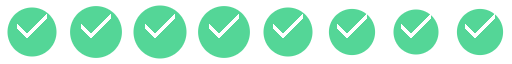
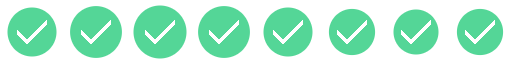
feat(mac): add tray style bw, widen the card stripe and centre the tick
- [tray] style = bw draws the quota icon as a template image the system tints
- widen the colour stripe from 8 to 14 px
- move the turn_complete tick down so it sits centred in the circle

diff --git a/src/tray_usage.rs b/src/tray_usage.rs
@@ -69,6 +69,37 @@ impl Levels {
 
     /// Top-down, premultiplied BGRA pixels for a square notification-area icon.
     pub fn render(&self, size: u32) -> Result<Vec<u8>, &'static str> {
+        self.paint(
+            size,
+            |remaining| match remaining {
+                Some(v) if v > 60.0 => [85, 180, 34, 255],
+                Some(v) if v > 20.0 => [0, 165, 216, 255],
+                Some(_) => [68, 68, 224, 255],
+                None => [133, 133, 133, 255],
+            },
+            [85, 85, 85, 255],
+        )
+    }
+
+    /// The same bars in black with only the alpha varying, for a template image: macOS tints
+    /// it black or white to match the menu bar. Missing data is a dimmer full-height bar.
+    pub fn render_mono(&self, size: u32) -> Result<Vec<u8>, &'static str> {
+        self.paint(
+            size,
+            |remaining| match remaining {
+                Some(_) => [0, 0, 0, 255],
+                None => [0, 0, 0, 110],
+            },
+            [0, 0, 0, 70],
+        )
+    }
+
+    fn paint(
+        &self,
+        size: u32,
+        fill_color: impl Fn(Option<f64>) -> [u8; 4],
+        track: [u8; 4],
+    ) -> Result<Vec<u8>, &'static str> {
         if !(8..=256).contains(&size) {
             return Err("invalid tray icon size");
         }
@@ -101,12 +132,7 @@ impl Levels {
             }
         }
         for (remaining, start, end) in bars {
-            let color = match remaining {
-                Some(v) if v > 60.0 => [85, 180, 34, 255],
-                Some(v) if v > 20.0 => [0, 165, 216, 255],
-                Some(_) => [68, 68, 224, 255],
-                None => [133, 133, 133, 255],
-            };
+            let color = fill_color(remaining);
             let percent = remaining.map_or(100.0, |v| match self.display {
                 UsageDisplay::Remain => v,
                 UsageDisplay::Used => 100.0 - v,
@@ -120,12 +146,53 @@ impl Levels {
                     let pixel = if y >= margin + height - fill {
                         color
                     } else {
-                        [85, 85, 85, 255]
+                        track
                     };
                     pixels[offset..offset + 4].copy_from_slice(&pixel);
                 }
             }
         }
         Ok(pixels)
+    }
+}
+
+#[cfg(test)]
+mod tests {
+    use super::*;
+
+    fn levels(remaining: [Option<f64>; 2]) -> Levels {
+        Levels {
+            remaining,
+            split_right: None,
+            display: UsageDisplay::Remain,
+        }
+    }
+
+    fn alpha(pixels: &[u8], size: u32, x: u32, y: u32) -> u8 {
+        pixels[((y * size + x) * 4 + 3) as usize]
+    }
+
+    #[test]
+    fn the_monochrome_icon_is_black_with_alpha_only_so_the_system_can_tint_it() {
+        let size = 32;
+        let pixels = levels([Some(50.0), None]).render_mono(size).unwrap();
+        assert_eq!(pixels.len(), (size * size * 4) as usize);
+        // Colour channels stay zero everywhere (premultiplied black).
+        assert!(pixels.chunks(4).all(|p| p[..3] == [0, 0, 0]));
+        let (left, right, bottom, top) = (6, 24, size - 5, 5);
+        // Known level: filled part opaque, empty part a faint track.
+        assert_eq!(alpha(&pixels, size, left, bottom), 255);
+        let track = alpha(&pixels, size, left, top);
+        assert!((1..255).contains(&track), "{track}");
+        // Missing data is drawn as a full-height dim bar, apart from a known level.
+        let unknown = alpha(&pixels, size, right, bottom);
+        assert!(unknown > track && unknown < 255, "{unknown}");
+        assert_eq!(unknown, alpha(&pixels, size, right, top));
+        assert_eq!(alpha(&pixels, size, 0, 0), 0);
+    }
+
+    #[test]
+    fn the_monochrome_icon_rejects_sizes_the_colour_icon_rejects() {
+        assert!(levels([None; 2]).render_mono(4).is_err());
     }
 }

diff --git a/src/mac/tray.rs b/src/mac/tray.rs
@@ -3,7 +3,7 @@ use super::{
     geometry::Rect,
     menu::{Command, Item},
 };
-use crate::tray_usage::Levels;
+use crate::{config::TrayStyle, tray_usage::Levels};
 use objc2::{
     DefinedClass, MainThreadMarker, MainThreadOnly, define_class, msg_send, rc::Retained, sel,
 };
@@ -53,7 +53,7 @@ pub struct Tray {
     item: Retained<NSStatusItem>,
     target: Retained<MenuTarget>,
     mtm: MainThreadMarker,
-    shown: Option<Levels>,
+    shown: Option<(Levels, TrayStyle)>,
 }
 
 impl Tray {
@@ -95,24 +95,29 @@ impl Tray {
     }
 
     /// Draws the quota bars as the icon; unchanged levels cost nothing.
-    pub fn set_levels(&mut self, levels: Levels) -> Result<(), String> {
-        if self.shown.as_ref() == Some(&levels) {
+    pub fn set_levels(&mut self, levels: Levels, style: TrayStyle) -> Result<(), String> {
+        if self.shown.as_ref() == Some(&(levels.clone(), style)) {
             return Ok(());
         }
         let size = (ICON_POINTS * 2.0) as u32;
-        let pixels = levels.render(size).map_err(|e| e.to_owned())?;
-        let image = super::image::from_bgra(
+        let pixels = match style {
+            TrayStyle::Color => levels.render(size),
+            TrayStyle::Bw => levels.render_mono(size),
+        }
+        .map_err(|e| e.to_owned())?;
+        let image = super::image::from_bgra_as(
             &pixels,
             size as i32,
             size as i32,
             (ICON_POINTS, ICON_POINTS),
+            style == TrayStyle::Bw,
         )?;
         let button = self
             .item
             .button(self.mtm)
             .ok_or("the status item has no button")?;
         button.setImage(Some(&image));
-        self.shown = Some(levels);
+        self.shown = Some((levels, style));
         Ok(())
     }
 

diff --git a/src/card_paint.rs b/src/card_paint.rs
@@ -198,7 +198,7 @@ pub fn paint(width: i32, height: i32, scale: f64, text_left: i32, content: &Card
     let mut pixels = vec![0u8; width as usize * height as usize * 4];
     let background = bgra(*background_color, 242);
     let radius = (18.0 * scale) as i32;
-    let stripe = (8.0 * scale) as i32;
+    let stripe = (14.0 * scale) as i32;
     for y in 0..height {
         for x in 0..width {
             let cx = x.clamp(radius, width - radius - 1);
@@ -378,8 +378,10 @@ mod tests {
         let painted = paint(W, H, 1.0, 22, &content(&heading, 1, false));
         assert_eq!(painted.pixels.len(), (W * H * 4) as usize);
         assert_eq!(pixel(&painted, 0, 0), [0, 0, 0, 0]);
-        // BGRA of the stripe colour (R 250, G 180, B 55), left of the 8 px stripe width.
+        // BGRA of the stripe colour (R 250, G 180, B 55); the stripe is 14 px wide at scale 1.
         assert_eq!(&pixel(&painted, 3, H / 2)[..3], &[55, 180, 250]);
+        assert_eq!(&pixel(&painted, 13, H / 2)[..3], &[55, 180, 250]);
+        assert_ne!(&pixel(&painted, 14, H / 2)[..3], &[55, 180, 250]);
         let background = crate::config::Notifications::default().background_color;
         assert_eq!(
             pixel(&painted, 40, H / 2),

diff --git a/tests/config.rs b/tests/config.rs
@@ -1,6 +1,6 @@
 use aherald::{
     cli::Cli,
-    config::{Config, Interpolation, LogLevel, Mode, Monitor, Position},
+    config::{Config, Interpolation, LogLevel, Mode, Monitor, Position, TrayStyle},
     events::Kind,
 };
 use std::{fs, path::PathBuf, process::Command};
@@ -287,6 +287,21 @@ fn missing_explicit_configuration_is_an_error() {
     assert!(Config::load(&path, false).is_ok());
     assert!(path.is_file());
     fs::remove_file(path).unwrap();
+}
+
+#[test]
+fn the_tray_style_is_color_by_default_and_accepts_bw() {
+    let dir = PathBuf::from(".");
+    assert_eq!(
+        Config::parse("", &dir).unwrap().tray.style,
+        TrayStyle::Color
+    );
+    for (name, style) in [("color", TrayStyle::Color), ("bw", TrayStyle::Bw)] {
+        let text = format!("[tray]\nstyle='{name}'");
+        assert_eq!(Config::parse(&text, &dir).unwrap().tray.style, style);
+    }
+    let error = Config::parse("[tray]\nstyle='gray'", &dir).unwrap_err();
+    assert!(error.contains("tray.style"), "{error}");
 }
 
 #[test]

diff --git a/src/mac/image.rs b/src/mac/image.rs
@@ -11,6 +11,17 @@ pub fn from_bgra(
     height: i32,
     size: (f64, f64),
 ) -> Result<Retained<NSImage>, String> {
+    from_bgra_as(pixels, width, height, size, false)
+}
+
+/// As [`from_bgra`]; a `template` image uses only its alpha and is tinted by the system.
+pub fn from_bgra_as(
+    pixels: &[u8],
+    width: i32,
+    height: i32,
+    size: (f64, f64),
+    template: bool,
+) -> Result<Retained<NSImage>, String> {
     if width <= 0 || height <= 0 || pixels.len() != width as usize * height as usize * 4 {
         return Err("image buffer does not match its size".into());
     }
@@ -47,6 +58,7 @@ pub fn from_bgra(
         rep.setSize(NSSize::new(size.0, size.1));
         let image = NSImage::initWithSize(NSImage::alloc(), NSSize::new(size.0, size.1));
         image.addRepresentation(&rep);
+        image.setTemplate(template);
         Ok(image)
     }
 }

diff --git a/generate_assets.rs b/generate_assets.rs
@@ -23,6 +23,9 @@ fn main() -> Result<(), Box<dyn std::error::Error>> {
             let alpha = ((radius + 1.0 - distance).clamp(0.0, 1.0) * 230.0) as u8;
             let mark = match kind {
                 "turn_complete" => {
+                    // The tick spans y -16..4 before this shift, so it sat above centre and
+                    // its tip nearly touched the rim; move it down to centre it in the circle.
+                    let y = y - 6.0;
                     ((y - (x + 9.0)).abs() < 2.5 && (-15.0..=-5.0).contains(&x))
                         || ((y - (-x - 1.0)).abs() < 2.5 && (-5.0..=15.0).contains(&x))
                 }

diff --git a/src/config.rs b/src/config.rs
@@ -100,6 +100,17 @@ impl Default for Config {
 #[serde(default, deny_unknown_fields)]
 pub struct Tray {
     pub graph: TrayGraph,
+    pub style: TrayStyle,
+}
+
+/// How the quota icon is drawn. `Bw` is a template image that macOS tints black or white to
+/// match the menu bar; other platforms draw `Color` whatever is configured.
+#[derive(Clone, Copy, Debug, Default, Deserialize, PartialEq, Eq)]
+#[serde(rename_all = "lowercase")]
+pub enum TrayStyle {
+    #[default]
+    Color,
+    Bw,
 }
 
 #[derive(Clone, Copy, Debug, Default, Deserialize, PartialEq, Eq)]

diff --git a/src/mac/resident.rs b/src/mac/resident.rs
@@ -326,7 +326,7 @@ impl Ui {
                 self.config.tray.graph,
                 display,
             );
-            if let Err(error) = self.tray.set_levels(levels) {
+            if let Err(error) = self.tray.set_levels(levels, self.config.tray.style) {
                 eprintln!("aHerald: {error}");
             }
         }

diff --git a/CHANGELOG.md b/CHANGELOG.md
@@ -10,6 +10,7 @@ Before tagging a release, rename `Unreleased` to the version and date, for examp
 ## [Unreleased]
 
 ### Added
+- `[tray] style = "bw"` draws the macOS menu-bar quota icon in the system's black or white.
 - macOS overlay (AH-062, in progress): a non-activating floating card on `NSPanel`, drawn with
   AppKit text, with fades, countdown, artwork, mouse navigation and `--demo`; tray, audio,
   click-to-activate and the usage card follow in AH-063–AH-066. Not yet checked on multiple
